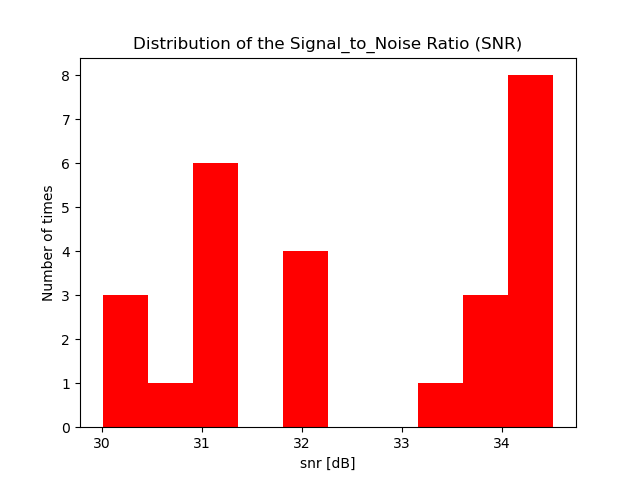
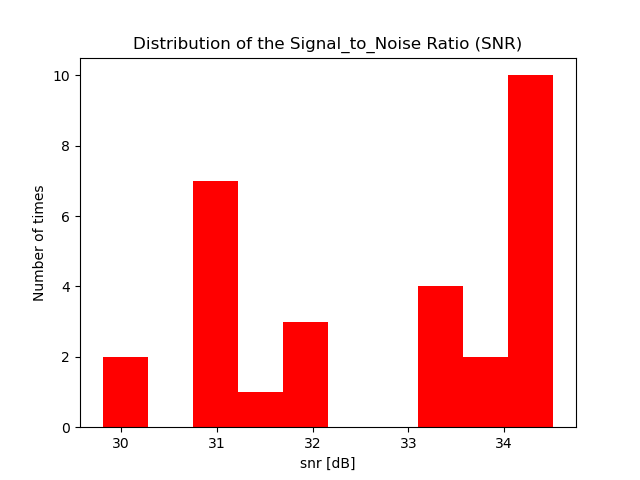
Dynamic modification of switching matrices Update method "propagate" in class "Node" and updated class "Network" to restore the matrices after the streaming

diff --git a/core/Node.py b/core/Node.py
@@ -1,3 +1,6 @@
+from Line import *
+
+
 class Node:
     def __init__(self, in_dict):
         self._label = in_dict['label']
@@ -51,9 +54,20 @@ class Node:
     # Define a propagate method that update a signal_information object modifying its path -----------------------------
     # attribute and call the successive one.
 
-    def propagate(self, signal_information):  # node.propagate(signal_information) begin "propagate" for the node.
-        signal_information.update_path()    # recall the update of the path of signal_inf
+    def propagate(self, signal_information, prev_node):  # prev_node is given from label[0] of class Line
+        signal_information.update_path()
         if len(signal_information.path) != 0:  # condition to break the recursivity -> we want at least 2 elements
+            if isinstance(signal_information, Lightpath) and prev_node is not None:
+                # None is an initialization that is valid only for the first time, then is = label[0]
+                # If the signal is propagated then the channel will be occupied
+                self.switching_matrix[prev_node][signal_information.path[0]][signal_information.channel] = 0
+                # then the channel is updated, so I have to block the previous and the next channels
+                # a verification is seen for the first and last channel that obv don't have prev and next channels.
+                if signal_information.channel != 0:
+                    self.switching_matrix[prev_node][signal_information.path[0]][signal_information.channel-1] = 0
+                if signal_information.channel != N_channel-1:
+                    self.switching_matrix[prev_node][signal_information.path[0]][signal_information.channel+1] = 0
+
             next_line = self.label + signal_information.path[0]
             self.successive[next_line].propagate(signal_information)
         return signal_information

diff --git a/core/Network.py b/core/Network.py
@@ -153,7 +153,7 @@ class Network:
     # FIFTH: propagate -> propagate the signal_information through the path specified and modified the information------
     def propagate(self, signal_information):
         start_node = signal_information.path[0]
-        self.nodes[start_node].propagate(signal_information)
+        self.nodes[start_node].propagate(signal_information, None)
         return signal_information
 
     def propagate_probe(self, signal_information):
@@ -362,5 +362,10 @@ class Network:
                 connection.latency = final_signal.latency
                 connection.snr = 10 * np.log10(final_signal.signal_power / final_signal.noise_power)
                 self.route_space_update()
+
+        # Initial switching matrix restored after the streaming
+        for actual_node in self.nodes:
+            for node_connected in self.nodes[actual_node].connected_nodes:
+                self.nodes[actual_node].switching_matrix[node_connected] = self.data_dict[actual_node]['switching_matrix'][node_connected]
 
 

diff --git a/core/main_lab7a.py b/core/main_lab7a.py
@@ -3,7 +3,7 @@ from Connection import *
 import matplotlib.pyplot as plt
 import random  # useful to generate random combination of nodes
 
-Net4 = Network("../resources/nodes_not_full.json")  # first read the matrix FULL
+Net4 = Network("../resources/nodes_full.json")  # first read the matrix FULL
 Net4.connect()  # recall connect to create the Network
 # Net4.draw()     # draw the Network
 Net4.weighted_paths_dataframe()  # recall weighted_paths to calculate the latency and snr of paths
@@ -55,6 +55,6 @@ plt.hist(snr_list, color='r')
 plt.xlabel("snr [dB]")
 plt.ylabel("Number of times")
 plt.title("Distribution of the Signal_to_Noise Ratio (SNR)")
-plt.savefig('../results/Nodes_not_full_json_SNR_distribution_')
+plt.savefig('../results/Nodes_full_json_SNR_distribution_')
 
 plt.show()

diff --git a/core/Line.py b/core/Line.py
@@ -71,7 +71,7 @@ class Line:
         # if object is in Lightpath -> I want to take it so... -> change its state in "occupied"
         if isinstance(signal_information, Lightpath):
             self.state[signal_information.channel] = 0
-        signal_information = self.successive[signal_information.path[0]].propagate(signal_information)
+        signal_information = self.successive[signal_information.path[0]].propagate(signal_information, self.label[0])
         return signal_information
 
     def propagate_probe(self, signal_information):
